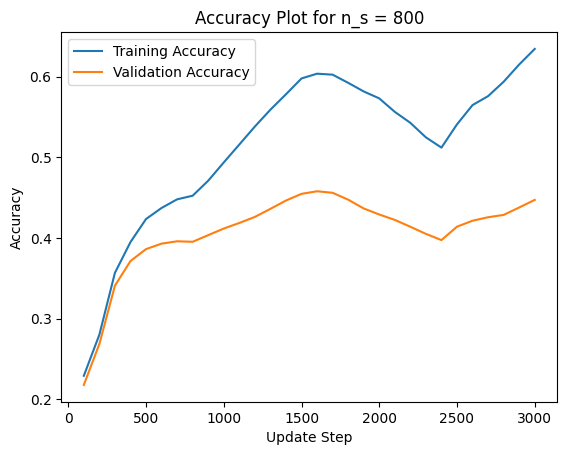
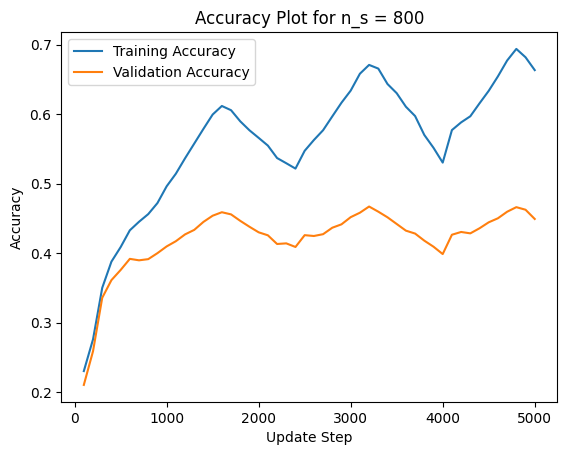
finished Assignment 2

diff --git a/Assignment2/Assignment2.py b/Assignment2/Assignment2.py
@@ -10,7 +10,8 @@ This assignment implements a one-layer neural network.
 import pickle
 # import statistics
 # import unittest
-# import random
+from math import pow
+import random
 import matplotlib
 import matplotlib.pyplot as plt
 import numpy as np
@@ -44,53 +45,52 @@ def LoadBatch(filename):
 
 
 
+# def GeneratePlots(neural_net, params):
+#     x = list(range(1, len(neural_net.history_training_cost) + 1))
+#     plt.plot(x, neural_net.history_training_cost, label="Training Loss")
+#     plt.plot(x, neural_net.history_validation_cost, label="Validation Loss")
+#     plt.title("Loss over epochs for n_batch=100, n_epochs=40, eta=" + str(params.lr) + ", lamda=" + str(params.lamda))
+#     plt.xlabel("Epochs")
+#     plt.ylabel("Loss")
+#     plt.xticks([0, 10, 20, 30, 40])
+#     plt.legend()
+#     plt.savefig("Plots/loss_eta=" + str(params.eta) + "_lamda=" + str(params.lamda) + ".png", bbox_inches="tight")
+#     plt.show()
+#
+#     plt.plot(x, neural_net.history_training_accuracy, label="Training Accuracy")
+#     plt.plot(x, neural_net.history_validation_accuracy, label="Validation Accuracy")
+#     plt.title("Accuracy over epochs for n_batch=100, n_epochs=40, eta=" + str(params.lr) + ", lamda=" + str(params.lamda))
+#     plt.xlabel("Epochs")
+#     plt.ylabel("Accuracy")
+#     plt.xticks([0, 10, 20, 30, 40])
+#     plt.legend()
+#     plt.savefig("Plots/accuracy_eta=" + str(params.eta) + "_lamda=" + str(params.lamda) + ".png", bbox_inches="tight")
+#     plt.show()
+
 def GeneratePlots(neural_net, params):
     x = list(range(1, len(neural_net.history_training_cost) + 1))
     plt.plot(x, neural_net.history_training_cost, label="Training Loss")
     plt.plot(x, neural_net.history_validation_cost, label="Validation Loss")
-    plt.title("Loss over epochs for n_batch=100, n_epochs=40, eta=" + str(params.lr) + ", lamda=" + str(params.lamda))
+    plt.title("Loss over epochs for n_s=800, n_epochs=30, lamda=8e-4")
     plt.xlabel("Epochs")
     plt.ylabel("Loss")
-    plt.xticks([0, 10, 20, 30, 40])
     plt.legend()
-    plt.savefig("Plots/loss_eta=" + str(params.eta) + "_lamda=" + str(params.lamda) + ".png", bbox_inches="tight")
+    plt.savefig("Plots/loss_cyclic_lambda=" + str(params.lamda) + ".png", bbox_inches="tight")
     plt.show()
 
     plt.plot(x, neural_net.history_training_accuracy, label="Training Accuracy")
     plt.plot(x, neural_net.history_validation_accuracy, label="Validation Accuracy")
-    plt.title("Accuracy over epochs for n_batch=100, n_epochs=40, eta=" + str(params.lr) + ", lamda=" + str(params.lamda))
-    plt.xlabel("Epochs")
-    plt.ylabel("Accuracy")
-    plt.xticks([0, 10, 20, 30, 40])
-    plt.legend()
-    plt.savefig("Plots/accuracy_eta=" + str(params.eta) + "_lamda=" + str(params.lamda) + ".png", bbox_inches="tight")
-    plt.show()
-
-def GeneratePlots(neural_net, params):
-    x = list(range(1, len(neural_net.history_training_cost) + 1))
-    plt.plot(x, neural_net.history_training_cost, label="Training Loss")
-    plt.plot(x, neural_net.history_validation_cost, label="Validation Loss")
-    plt.title("Loss over epochs for n_batch=100, n_epochs=40, eta=" + str(params.lr) + ", lamda=" + str(params.lamda))
-    plt.xlabel("Epochs")
-    plt.ylabel("Loss")
-    plt.legend()
-    plt.savefig("Plots/loss_eta=" + str(params.eta) + "_lamda=" + str(params.lamda) + ".png", bbox_inches="tight")
-    plt.show()
-
-    plt.plot(x, neural_net.history_training_accuracy, label="Training Accuracy")
-    plt.plot(x, neural_net.history_validation_accuracy, label="Validation Accuracy")
-    plt.title("Accuracy over epochs for n_batch=100, n_epochs=40, eta=" + str(params.lr) + ", lamda=" + str(params.lamda))
+    plt.title("Accuracy over epochs for n_s=800, n_epochs=30, lamda=8e-4")
     plt.xlabel("Epochs")
     plt.ylabel("Accuracy")
     plt.legend()
-    plt.savefig("Plots/accuracy_eta=" + str(params.eta) + "_lamda=" + str(params.lamda) + ".png", bbox_inches="tight")
+    plt.savefig("Plots/accuracy_cyclic_lambda=" + str(params.lamda) + ".png", bbox_inches="tight")
     plt.show()
 
 def GenerateCyclicPlots(neural_net, params):
     # x = list(range(1, len(neural_net.history_training_cost_cyclic) + 1))
     # plt.plot(x, neural_net.history_training_cost_cyclic, label="Training Loss")
     # plt.plot(x, neural_net.history_validation_cost_cyclic, label="Validation Loss")
-    assert len(neural_net.history_update) == len(neural_net.history_training_cost_cyclic)
     plt.plot(neural_net.history_update, neural_net.history_training_cost, label="Training Loss")
     plt.plot(neural_net.history_update, neural_net.history_validation_cost, label="Validation Loss")
     plt.title("Loss Plot for n_s = " + str(params.n_s))
@@ -115,25 +115,25 @@ def save_as_mat(data, name="model"):
 
 
 if __name__ == '__main__':
-    np.random.seed(3274619)
+    np.random.seed(0)
 
 
-    # # Initialize
-    # X_train, Y_train, y_train = LoadBatch("Datasets/cifar-10-batches-py/data_batch_1")
-    # X_validation, Y_validation, y_validation = LoadBatch("Datasets/cifar-10-batches-py/data_batch_2")
-    # X_test, Y_test, y_test = LoadBatch("Datasets/cifar-10-batches-py/test_batch")
-    #
-    # data = {
-    #     'X_train': X_train,
-    #     'Y_train': Y_train,
-    #     'y_train': y_train,
-    #     'X_validation': X_validation,
-    #     'Y_validation': Y_validation,
-    #     'y_validation': y_validation,
-    #     'X_test': X_test,
-    #     'Y_test': Y_test,
-    #     'y_test': y_test
-    # }
+    # Initialize small training set
+    X_train, Y_train, y_train = LoadBatch("Datasets/cifar-10-batches-py/data_batch_1")
+    X_validation, Y_validation, y_validation = LoadBatch("Datasets/cifar-10-batches-py/data_batch_2")
+    X_test, Y_test, y_test = LoadBatch("Datasets/cifar-10-batches-py/test_batch")
+
+    data = {
+        'X_train': X_train,
+        'Y_train': Y_train,
+        'y_train': y_train,
+        'X_validation': X_validation,
+        'Y_validation': Y_validation,
+        'y_validation': y_validation,
+        'X_test': X_test,
+        'Y_test': Y_test,
+        'y_test': y_test
+    }
 
     # Check Gradient Code is Correct -----------------------------------------------------------------------------------
     # # Test with subset
@@ -150,17 +150,17 @@ if __name__ == '__main__':
     # neural_net.MiniBatchGD(X_train[:, :100], Y_train[:, :100], y_train[:100], params)
 
     # Test Neural Network is Running -----------------------------------------------------------------------------------
-    # neural_net = MLNN(data, X_train, Y_train)
-    # params = GDparams(n_batch=100, lr=0.001, lr_max=1e-1, lr_min=1e-5, n_s=500, cyclic=True, n_epochs=10, lamda=0.01)
-    # neural_net.MiniBatchGD(X_train, Y_train, y_train, params)
-    # # GeneratePlots(neural_net, params)
-    # GenerateCyclicPlots(neural_net, params)
-    #
-    # neural_net = MLNN(data, X_train, Y_train)
-    # params = GDparams(n_batch=100, lr=0.001, lr_max=1e-1, lr_min=1e-5, n_s=800, cyclic=True, n_epochs=30, lamda=0.01)
-    # neural_net.MiniBatchGD(X_train, Y_train, y_train, params)
-    # # GeneratePlots(neural_net, params)
-    # GenerateCyclicPlots(neural_net, params)
+    neural_net = MLNN(data, X_train, Y_train)
+    params = GDparams(n_batch=100, lr=0.001, lr_max=1e-1, lr_min=1e-5, n_s=500, cyclic=True, n_epochs=10, lamda=0.01)
+    neural_net.MiniBatchGD(X_train, Y_train, y_train, params)
+    # GeneratePlots(neural_net, params)
+    GenerateCyclicPlots(neural_net, params)
+
+    neural_net = MLNN(data, X_train, Y_train)
+    params = GDparams(n_batch=100, lr=0.001, lr_max=1e-1, lr_min=1e-5, n_s=800, cyclic=True, n_epochs=50, lamda=0.01)
+    neural_net.MiniBatchGD(X_train, Y_train, y_train, params)
+    # GeneratePlots(neural_net, params)
+    GenerateCyclicPlots(neural_net, params)
 
     # Training Lambda Search -------------------------------------------------------------------------------------------
     X_train1, Y_train1, y_train1 = LoadBatch("datasets/cifar-10-batches-py/data_batch_1")
@@ -173,8 +173,8 @@ if __name__ == '__main__':
     Y_train = np.concatenate((Y_train1, Y_train2, Y_train3, Y_train4, Y_train5),axis=1)
     y_train = np.concatenate((y_train1, y_train2, y_train3, y_train4, y_train5))
 
-    #using 1000 elements for validation set
-    validation_size = 5000
+    #using 5000 elements for validation set during course/fine search and then 1000 in final phase
+    validation_size = 1000
     X_validation = X_train[:, -validation_size:]
     Y_validation = Y_train[:, -validation_size:]
     y_validation = y_train[-validation_size:]
@@ -197,15 +197,33 @@ if __name__ == '__main__':
     }
 
 
-    # Run training for all parameter Settings
-    # lamdas = [0, 0, .1, 1]
-    # etas = [.1, .001, .001, .001]
-    # for iter in range(4):
+    # generate lamdas
+
+    #first round (coarse)
+    # l_min = -5
+    # l_max = -1
+    # lamdas = [pow(10, (l_min + (l_max - l_min) * random.random())) for iter in range(8)]
+
+    # second round
+    # lamdas = [0.0001, 0.00025, 0.0005, 0.00075, 0.001]
+
+    # third round
+    # lamdas = [0.00075, 0.000775, 0.0008, 0.000825, 0.00085, 0.000875, 0.0009, 0.000925]
+
+    # for lamda in lamdas:
     #     neural_net = MLNN(data, X_train, Y_train)
-    #     params = GDparams(n_batch=100, lr=etas[iter], n_epochs=40, lamda = lamdas[iter])
-    #     print("MiniBatch Training with n_batch=100, n_epochs=40, lr=", etas[iter], ", lamda=", lamdas[iter])
-    #     neural_net.MiniBatchGD(X_train, Y_train, y_train, params, neural_net.W, neural_net.b)
+    #     params = GDparams(n_batch=100, lr=0.001, lr_max=1e-1, lr_min=1e-5, n_s=800, cyclic=True, n_epochs=20,lamda=lamda)
+    #     print("MiniBatch Training with lambda=", lamda)
+    #     neural_net.MiniBatchGD(X_train, Y_train, y_train, params)
     #     GeneratePlots(neural_net, params)
+
+
+    # final round of training (for 8e-4)
+    # neural_net = MLNN(data, X_train, Y_train)
+    # params = GDparams(n_batch=100, lr=0.001, lr_max=1e-1, lr_min=1e-5, n_s=980, cyclic=True, n_epochs=12, lamda=8e-4)
+    # neural_net.MiniBatchGD(X_train, Y_train, y_train, params)
+    # GeneratePlots(neural_net, params)
+
 
 
 

diff --git a/Assignment2/mlnn.py b/Assignment2/mlnn.py
@@ -39,6 +39,8 @@ class MLNN:
         self.K = targets.shape[0]
         self.m = self.hidden_size #nodes in hidden layer
         self.W_1, self.b_1, self.W_2, self.b_2 = self.InitializeWeightsBias()
+        self.test_accuracy = 0
+        self.test_cost = 0
 
     def InitializeWeightsBias(self):
         """
@@ -217,7 +219,7 @@ class MLNN:
         return gradient_W1, gradient_b1, gradient_W2, gradient_b2
 
 
-    def ComputeGradsNumSlow(self, X, Y, W1, b1, W2, b2, lamda, h):
+    def ComputeGradsNum(self, X, Y, W1, b1, W2, b2, lamda, h):
         """
             Computes the gradients of the weight and bias parameters using numerical computation method
 
@@ -277,7 +279,7 @@ class MLNN:
                 None
         """
         grad_w1_numerical, grad_b1_numerical, grad_w2_numerical, grad_b2_numerical = \
-            self.ComputeGradsNumSlow(X, Y, self.W_1, self.b_1, self.W_2, self.b_2, lamda, 1e-5)
+            self.ComputeGradsNum(X, Y, self.W_1, self.b_1, self.W_2, self.b_2, lamda, 1e-5)
         grad_w1_analytical, grad_b1_analytical, grad_w2_analytical, grad_b2_analytical = \
             self.ComputeGradients(X, Y, self.W_1, self.b_1, self.W_2, self.b_2, lamda)
 
@@ -385,7 +387,12 @@ class MLNN:
                       " | Train cost: ", "{:.10f}".format(training_cost),
                       " | Validation accuracy: ", "{:.4f}".format(validation_accuracy),
                       " | Validation cost: ", "{:.10f}".format(validation_cost))
-        print("Test Accuracy: ", self.ComputeAccuracy(self.X_test, self.y_test, self.W_1, self.b_1, self.W_2, self.b_2))
+
+        self.test_accuracy = self.ComputeAccuracy(self.X_test, self.y_test, self.W_1, self.b_1, self.W_2, self.b_2)
+        self.test_cost = self.ComputeCost(self.X_test, self.Y_test, self.W_1, self.b_1, self.W_2, self.b_2,
+                                          GDparams.lamda)
+        print("Test Accuracy: ", self.test_accuracy)
+        print("Test Cost: ", self.test_cost)
         # self.ShowWeights(W, GDparams)
 
     def ShowWeights(self, W, params):
